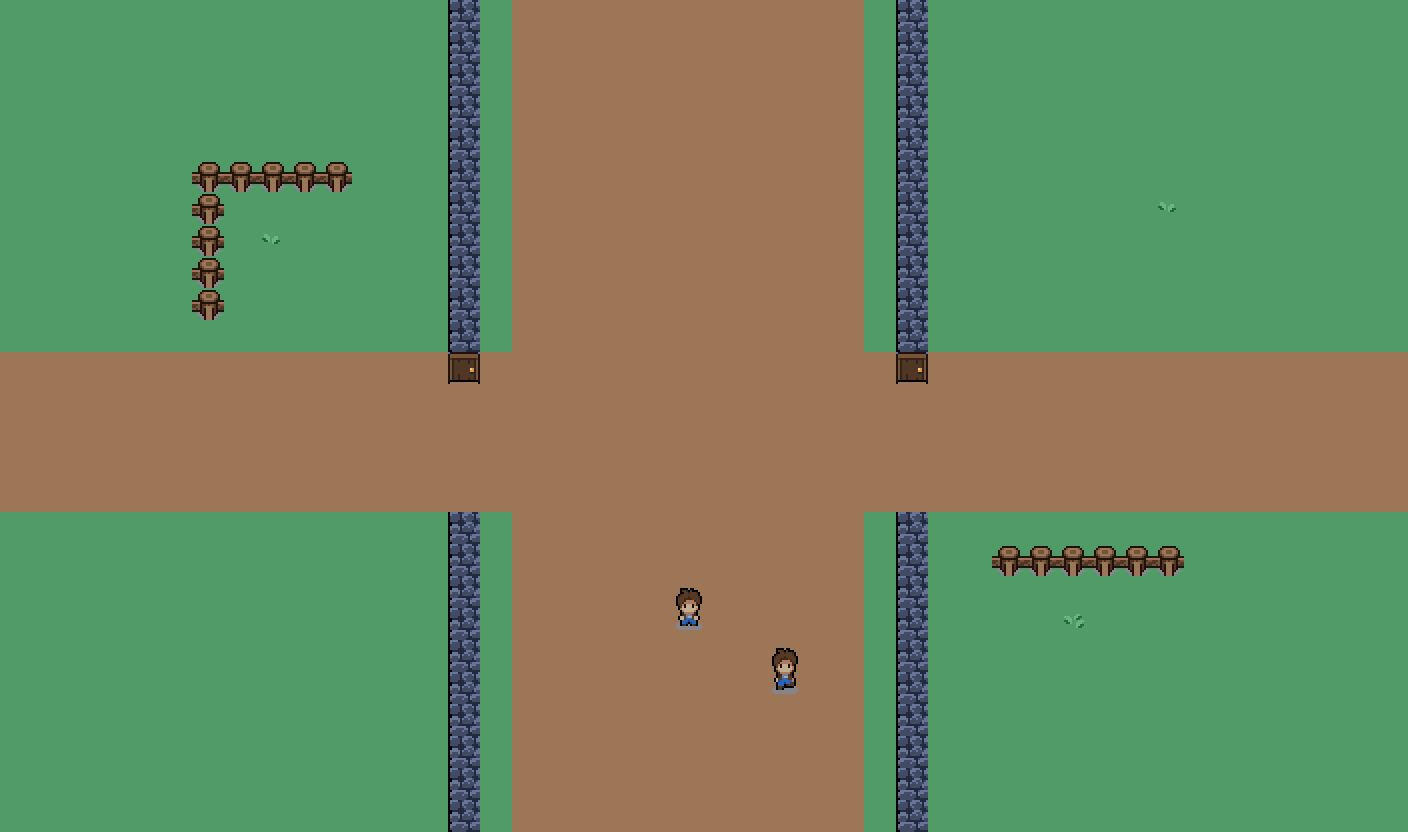
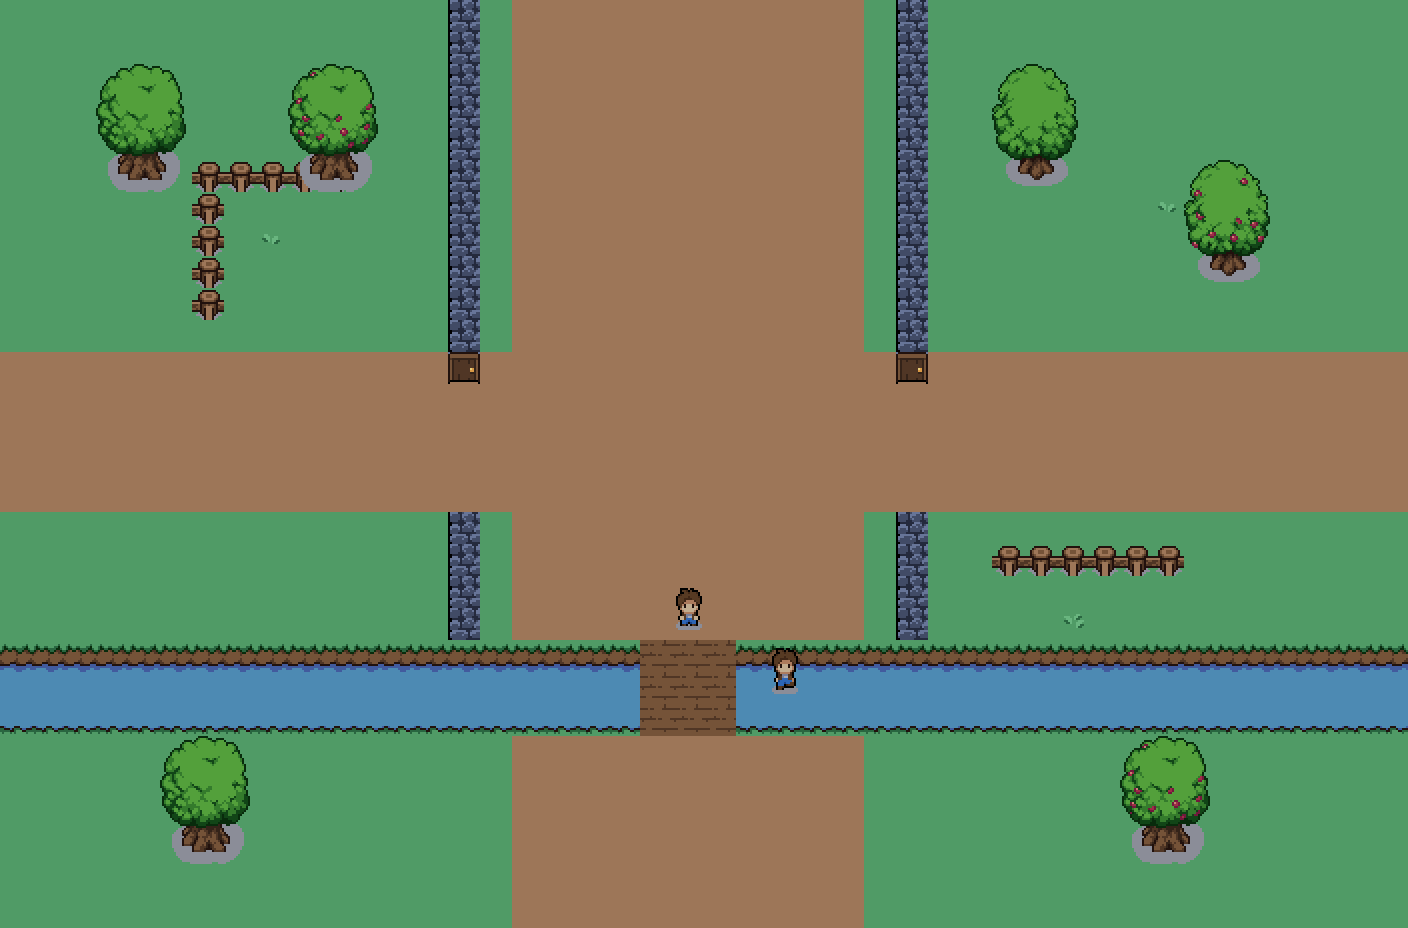
feat: MW付费版P0样张——灰盒换根2.2+真水系永安渠/木板桥/槐树入景+角色唐装全动画重着装样张(乌发髻/绯袍/金束带, 弧光白刃双用色邻接分离)+block持盾补帧提案
- tools/mw_graybox_sample.py: 包根切 mystic_woods_2.2(付费解锁版), 新增 paste_px 任意尺寸贴图、永安渠(大池塘上岸/水面/下岸三瓦横贯)+主干街南延+木板桥+6棵大树点位, 坊墙南端止于渠岸, 画布26→29行
- tools/mw_fangwall_specimen.py: 包根同步切2.2(坊墙小样重出)
- tools/mw22_char_specimen.py(新): P0b角色样张——player.png 48x48切帧, 唐装重着装(乌发+发髻+金簪/绯红圆领袍/金束带/乌皮靴), 双用色分离(白=衫高光/眼白/弧光高光: 十字夹蓝才染; 蓝灰=衫影/弧光灰: 贴身体本色才染), 现代装=MW原样对比条, block补帧提案(idle下坐1px+体侧木盾)
- docs/shots/: mw_graybox_{original,tang}.png 重出(付费真水系/大树), mw22_char_specimen.png 新增, mw22_inventory/water1_grid.png 水面网格分析图
- 验证: regress_world.py 118/118 PASS(含并行会话M5提交后工作树)

diff --git a/tools/mw22_char_specimen.py b/tools/mw22_char_specimen.py
@@ -1,0 +1,171 @@
+# -*- coding: utf-8 -*-
+"""Mystic Woods 付费版 player.png 角色样张（P0b 验证用，不入游戏管线）
+验证三件事：
+  1) 唐装重着装（乌发髻+绯红圆领袍+金束带+乌皮靴）在 48x48 帧上的全动画效果
+  2) MW 原生外观作"现代装"的对比条（双外观路线：穿越前=MW原样/穿越后=唐装重着装）
+  3) block 补帧提案（包内无防御帧 -> idle 帧+程序化持盾叠加+身体下坐1px）
+布局（scale 4）：
+  唐装: idle 下/右/上, walk 下/右/上, attack 下/右/上, 死亡
+  现代: idle 下, walk 下, block提案x2
+输出: docs/shots/mw22_char_specimen.png
+"""
+import os
+from PIL import Image, ImageDraw, ImageFont
+
+ROOT = os.path.dirname(os.path.dirname(os.path.abspath(__file__)))
+SRC = os.path.join(ROOT, "downloaded_assets", "mystic_woods_2.2", "sprites", "characters", "player.png")
+OUT = os.path.join(ROOT, "docs", "shots", "mw22_char_specimen.png")
+TS = 48  # 帧尺寸
+SCALE = 4
+
+# ---- 唐装映射（源RGB -> 目标RGB），按帧内上下半身分区处理 ----
+HAIR = (38, 32, 38)        # 乌发主
+HAIR_D = (28, 24, 26)      # 乌发暗
+ROBE = (150, 56, 36)       # 绯红袍主（锚=坊墙小样 RED_M，唐风红木色板）
+ROBE_L = (206, 106, 72)    # 袍亮（衫高光位）
+ROBE_D = (110, 40, 26)     # 袍暗（裤位并入袍摆）
+BELT = (196, 150, 74)      # 金束带（锚=GOLD）
+BELT_D = (150, 108, 50)
+BOOT = (52, 38, 30)        # 乌皮靴帮（原发影棕复用位）
+BOOT_D = (28, 22, 20)      # 靴面深
+
+SRC_HAIR = (87, 58, 35)
+SRC_HAIR_D = (64, 39, 23)
+SRC_SHIRT = (44, 101, 181)
+SRC_SHIRT_L = (255, 255, 255)
+SRC_PANTS = (29, 67, 138)
+SRC_BOOT_D = (33, 17, 13)
+
+
+def frame(im, c, r):
+    return im.crop((c*TS, r*TS, (c+1)*TS, (r+1)*TS)).convert("RGBA")
+
+
+CORE = {SRC_HAIR, SRC_HAIR_D, SRC_SHIRT, SRC_PANTS, SRC_BOOT_D,
+        (0, 0, 0), (172, 123, 93), (193, 172, 143)}   # 身体本色(弧光/白刃不在内)
+SHADE_GRAY = (120, 126, 151)                            # 衫影/弧光灰 双用色
+SHIRT_DK = (13, 32, 94)                                 # 衫最暗档
+
+
+def tang_dress(fr, dirn):
+    """单帧唐装重着装：乌发髻 + 绯红圆领袍 + 金束带 + 乌皮靴
+    双用色分离规则：白=衫高光/眼白/弧光高光三用，仅当被蓝色衣物十字夹住才染；
+    蓝灰=衫影/弧光灰双用，仅当紧贴蓝色衣物才染（贴白刃/弧光的保留灰）"""
+    px = fr.load()
+    xs, ys = [], []
+    for y in range(TS):
+        for x in range(TS):
+            if px[x, y][3] > 200 and px[x, y][:3] in CORE:   # 身体bbox, 排除弧光
+                xs.append(x); ys.append(y)
+    if not xs:
+        return fr
+    x0, x1, y0, y1 = min(xs), max(xs), min(ys), max(ys)
+    ch = y1 - y0 + 1
+    waist = y0 + int(ch * 0.55)
+    cx = (x0 + x1) // 2
+    orig = [[px[x, y][:3] for x in range(TS)] for y in range(TS)]   # 快照, 防同帧改色污染邻接判断
+    # 衣饰灰判据：贴身体本色(衫蓝/黑描边/皮肤/发棕) -> 衣物；悬浮于白/灰之间 -> 弧光
+    BODY_COLORS = {SRC_SHIRT, SRC_PANTS, (0, 0, 0), (172, 123, 93), (193, 172, 143), SRC_HAIR, SRC_HAIR_D}
+    body_gray = lambda x, y: 0 <= x < TS and 0 <= y < TS and orig[y][x] in BODY_COLORS
+    at_blue = lambda x, y: 0 <= x < TS and 0 <= y < TS and orig[y][x] in (SRC_SHIRT, SRC_PANTS)
+    for y in range(TS):
+        for x in range(TS):
+            r, g, b, a = px[x, y]
+            if a <= 10:
+                continue
+            src = (r, g, b)
+            if src == SRC_SHIRT:
+                px[x, y] = (*(ROBE if y >= waist else ROBE_L), 255)
+            elif src in (SRC_PANTS, SHIRT_DK):
+                px[x, y] = (*ROBE_D, 255)
+            elif src == SRC_SHIRT_L:
+                if (at_blue(x-1, y) and at_blue(x+1, y)) or (at_blue(x, y-1) and at_blue(x, y+1)):
+                    px[x, y] = (*ROBE_L, 255)          # 衫高光(被蓝十字夹住) -> 袍亮
+            elif src == SHADE_GRAY:
+                if body_gray(x-1, y) or body_gray(x+1, y) or body_gray(x, y-1) or body_gray(x, y+1):
+                    px[x, y] = (*ROBE_D, 255)          # 衫影(贴衣/贴描边) -> 袍影
+            elif src == (164, 168, 181):
+                if body_gray(x-1, y) or body_gray(x+1, y) or body_gray(x, y-1) or body_gray(x, y+1):
+                    px[x, y] = (*ROBE_L, 255)          # 衫缘高光 -> 袍亮
+            elif src == SRC_HAIR and y < waist:
+                px[x, y] = (*HAIR, 255)
+            elif src == SRC_HAIR_D:
+                px[x, y] = (*(HAIR_D if y < waist else BOOT), 255)
+            elif src == SRC_BOOT_D:
+                px[x, y] = (*BOOT_D, 255)
+    # 金束带: 腰线两行, 袍色像素改金
+    for y in (waist, waist + 1):
+        for x in range(x0, x1 + 1):
+            if px[x, y][:3] in (ROBE, ROBE_D):
+                px[x, y] = (*(BELT if y == waist else BELT_D), 255)
+    # 发髻: 头顶堆 3 行乌发 + 金簪一点（右向偏后）
+    bx = cx - 2 if dirn == "right" else cx
+    for dy, half in ((1, 2), (2, 2), (3, 1)):
+        for dx in range(-half, half + 1):
+            xx, yy = bx + dx, y0 - dy
+            if 0 <= xx < TS and yy >= 0 and px[xx, yy][3] <= 10:
+                px[xx, yy] = (*(HAIR if dy < 3 else HAIR_D), 255)
+    if 0 <= bx + 3 < TS and y0 - 2 >= 0:
+        px[bx + 3, y0 - 2] = (*BELT, 255)       # 发簪
+    return fr
+
+
+def block_pose(fr):
+    """block 补帧提案: 身体下坐1px + 体侧程序化小圆木盾（不遮脸）"""
+    canvas = Image.new("RGBA", (TS, TS), (0, 0, 0, 0))
+    canvas.alpha_composite(fr, (0, 1))
+    d = ImageDraw.Draw(canvas)
+    px = fr.load()
+    xs = [x for y in range(TS) for x in range(TS) if fr.getpixel((x, y))[3] > 200]
+    cx = (min(xs) + max(xs)) // 2
+    sx0, sy0 = cx + 2, 30                       # 右手侧前方
+    d.ellipse([sx0, sy0, sx0 + 7, sy0 + 9], fill=(116, 84, 54, 255), outline=(52, 36, 26, 255))
+    d.ellipse([sx0 + 2, sy0 + 3, sx0 + 4, sy0 + 5], fill=(150, 150, 158, 255))
+    return canvas
+
+
+def main():
+    im = Image.open(SRC).convert("RGBA")
+    ROWS = {  # 行号 -> (帧数, 方向)
+        0: (6, "down"), 1: (6, "right"), 2: (6, "up"),
+        3: (6, "down"), 4: (6, "right"), 5: (6, "up"),
+        6: (4, "down"), 7: (4, "right"), 8: (4, "up"), 9: (3, "down"),
+    }
+    bands = []  # (标签, [帧PIL])
+    # 唐装段
+    for r, label in [(0, "唐装 idle·下"), (1, "唐装 idle·右"), (2, "唐装 idle·上"),
+                     (3, "唐装 walk·下"), (4, "唐装 walk·右"), (5, "唐装 walk·上"),
+                     (6, "唐装 attack·下"), (7, "唐装 attack·右"), (8, "唐装 attack·上"),
+                     (9, "唐装 受击/死亡")]:
+        n, dirn = ROWS[r]
+        bands.append((label, [tang_dress(frame(im, c, r), dirn) for c in range(n)]))
+    # 现代段（MW 原样即"穿越前"外观）
+    bands.append(("现代 idle·下（MW原样）", [frame(im, c, 0) for c in range(6)]))
+    bands.append(("现代 walk·下（MW原样）", [frame(im, c, 3) for c in range(6)]))
+    bands.append(("block补帧提案: idle原帧 | 下坐+持盾", [frame(im, 0, 0), block_pose(frame(im, 0, 0))]))
+
+    try:
+        font = ImageFont.truetype("C:/Windows/Fonts/msyh.ttc", 15)
+    except OSError:
+        font = ImageFont.load_default()
+
+    pad, label_h, cell = 10, 22, TS*SCALE
+    max_cells = max(len(f) for _, f in bands)
+    W = pad*2 + max_cells*(cell+8) - 8
+    H = pad*2 + sum(label_h + cell + 14 for _ in bands) - 14
+    sheet = Image.new("RGBA", (W, H), (40, 40, 48, 255))
+    d = ImageDraw.Draw(sheet)
+    y = pad
+    for label, frames in bands:
+        d.text((pad, y+2), label, fill=(255, 220, 120, 255), font=font)
+        y += label_h
+        for i, fr in enumerate(frames):
+            big = fr.resize((cell, cell), Image.NEAREST)
+            sheet.alpha_composite(big, (pad + i*(cell+8), y))
+        y += cell + 14
+    sheet.save(OUT)
+    print("[char-specimen] wrote", OUT, sheet.size)
+
+
+if __name__ == "__main__":
+    main()

diff --git a/tools/mw_graybox_sample.py b/tools/mw_graybox_sample.py
@@ -9,11 +9,11 @@ sys.path.insert(0, os.path.dirname(os.path.abspath(__file__)))
 from import_pack_assets import load_png, save_png
 
 ROOT = os.path.dirname(os.path.dirname(os.path.abspath(__file__)))
-MW = os.path.join(ROOT, "downloaded_assets", "mystic_woods_free_2.2", "sprites")
+MW = os.path.join(ROOT, "downloaded_assets", "mystic_woods_2.2", "sprites")
 OUT = os.path.join(ROOT, "docs", "shots")
 TS = 16          # MW 瓦片尺寸
 SCALE = 2        # 输出放大倍数
-COLS, ROWSN = 44, 26
+COLS, ROWSN = 44, 29
 
 def P(*p): return os.path.join(MW, *p)
 
@@ -31,6 +31,17 @@ def paste(canvas, piece, cx, cy):
         for j in range(0, len(line), 4):
             if line[j+3] >= 10:
                 dst[x0+j:x0+j+4] = line[j:j+4]
+
+def paste_px(canvas, rows, px_x, px_y):
+    """任意宽高的像素块贴到画布像素坐标（alpha 合成），用于大树等多瓦物件"""
+    for i, line in enumerate(rows):
+        y = px_y + i
+        if not (0 <= y < len(canvas)): continue
+        dst = canvas[y]
+        for j in range(0, len(line), 4):
+            x = px_x + j//4
+            if 0 <= x < COLS*TS and line[j+3] >= 10:
+                dst[x*4:x*4+4] = line[j:j+4]
 
 def color_classify(piece):
     """返回 (绿占比, 棕占比, 灰占比, 透明占比)"""
@@ -69,6 +80,9 @@ def main():
     fences = load_png(P("tilesets", "fences.png"))
     door   = load_png(P("tilesets", "walls", "wooden_door.png"))
     decor  = load_png(P("tilesets", "decor_16x16.png"))
+    objects = load_png(P("objects", "objects.png"))
+    water1 = load_png(P("tilesets", "water1.png"))
+    wooden = load_png(P("tilesets", "floors", "wooden.png"))
     player = load_png(P("characters", "player.png"))
 
     # ---- 自动选瓦片 ----
@@ -94,7 +108,7 @@ def main():
                 if want == "b" and r > g > bb and r-bb > 15: hit += 1
         return hit/n
     edge_top = edge_bot = None
-    for ty in range(min(4, plains[1]//TS)):
+    for ty in range(plains[1]//TS):
         for tx in range(plains[0]//TS):
             if (tx, ty) == dirt: continue
             pc = tile(plains[2], tx, ty)
@@ -135,9 +149,9 @@ def main():
             if cross_y0 <= y <= cross_y1: continue
             paste(cv, tang_shift(et) if shift else et, zq_x0-1, y)
             paste(cv, tang_shift(eb) if shift else eb, zq_x1+1, y)
-        # 坊墙: 朱雀大街两侧 x=14 / x=28, 主干街处断开为坊门
+        # 坊墙: 朱雀大街两侧 x=14 / x=28, 主干街处断开为坊门, 南端止于永安渠
         for wx in (14, 28):
-            for y in range(ROWSN):
+            for y in range(20):
                 if cross_y0 <= y <= cross_y1: continue
                 paste(cv, tang_shift(tile(walls[2], *wall_face)) if shift else tile(walls[2], *wall_face), wx, y)
             # 门
@@ -157,6 +171,25 @@ def main():
         for (dx, dy, sx, sy) in [(8, 7, 0, 0), (33, 19, 1, 0), (36, 6, 0, 0)]:
             dp = tile(decor[2], sx, sy)
             paste(cv, tang_shift(dp) if shift else dp, dx, dy)
+        # 永安渠(付费版真水系): 横贯全图 y=20..22, 大池塘上岸/水面/下岸三瓦平铺
+        CANAL_Y0 = 20
+        for cy, src in ((CANAL_Y0, (2,0)), (CANAL_Y0+1, (2,1)), (CANAL_Y0+2, (2,2))):
+            for x in range(COLS):
+                paste(cv, tang_shift(tile(water1[2], *src)) if shift else tile(water1[2], *src), x, cy)
+        # 主干街南延土路(x=20..22)到渠边 + 木板桥跨渠
+        for y in range(cross_y1+1, CANAL_Y0):
+            for x in range(20, 23):
+                paste(cv, tang_shift(dirt_t) if shift else dirt_t, x, y)
+        for x in range(20, 23):
+            for cy in (CANAL_Y0, CANAL_Y0+1, CANAL_Y0+2):
+                paste(cv, tang_shift(tile(wooden[2], 0, 0)) if shift else tile(wooden[2], 0, 0), x, cy)
+        # 槐树(付费版 objects.png 大树): 街西/街东/渠南
+        TREE_BOXES = [(1,80,46,144), (49,80,94,144), (3,147,46,208), (51,147,94,208), (1,80,46,144), (49,80,94,144)]
+        TREE_AT = [(3,2), (9,2), (31,2), (37,5), (5,23), (35,23)]
+        for (box, pos) in zip(TREE_BOXES, TREE_AT):
+            x0c, y0c, x1c, y1c = box
+            rows = [objects[2][y][x0c*4:(x1c+1)*4] for y in range(y0c, y1c)]
+            paste_px(cv, tang_shift(rows) if shift else rows, pos[0]*TS, pos[1]*TS)
         # 玩家(体型/比例参照)
         pp = tang_shift(player_idle) if shift else player_idle
         pw = tang_shift(player_walk) if shift else player_walk

diff --git a/tools/mw_fangwall_specimen.py b/tools/mw_fangwall_specimen.py
@@ -9,7 +9,7 @@ sys.path.insert(0, os.path.dirname(os.path.abspath(__file__)))
 from import_pack_assets import load_png, save_png
 
 ROOT = os.path.dirname(os.path.dirname(os.path.abspath(__file__)))
-MW = os.path.join(ROOT, "downloaded_assets", "mystic_woods_free_2.2", "sprites")
+MW = os.path.join(ROOT, "downloaded_assets", "mystic_woods_2.2", "sprites")
 OUT = os.path.join(ROOT, "docs", "shots")
 TS = 16
 SCALE = 4
